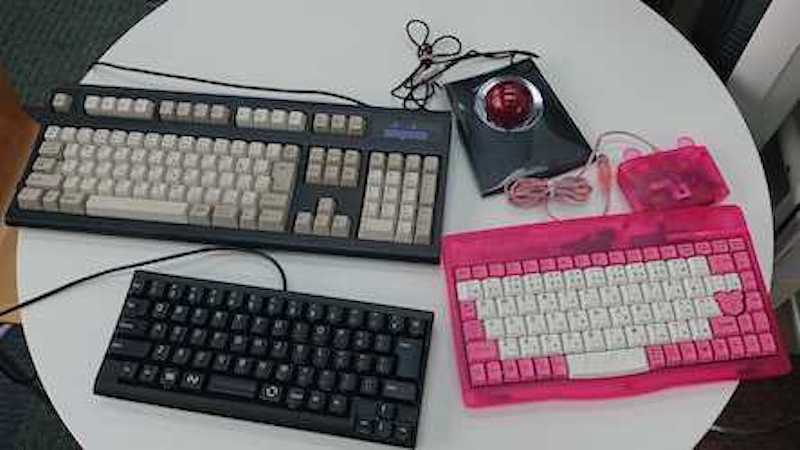
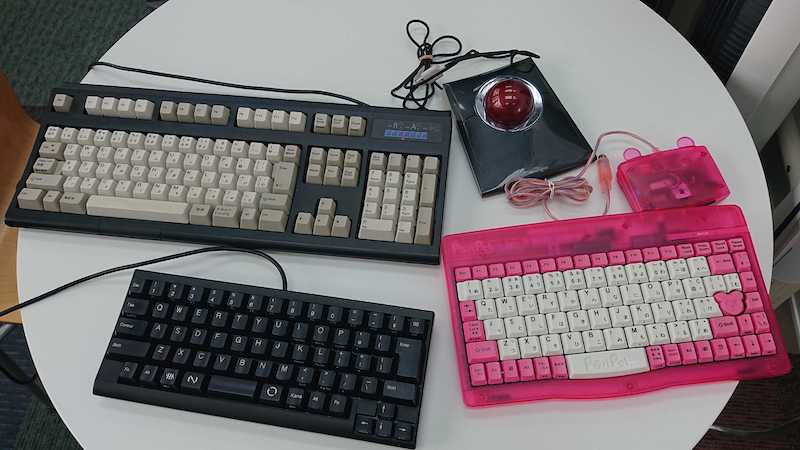
キーボードの写真と名称の修正

diff --git a/src/templates/blog-post.js b/src/templates/blog-post.js
@@ -23,11 +23,9 @@ const BlogPostTemplate = ({ data, pageContext, location }) => {
         <header>
           <h1 itemProp="headline">{post.frontmatter.title}</h1>
           <p>
-            <span style="font-size: 50%;">
-              Created: {post.frontmatter.date}
-              <br />
-              Last modified: {post.fields.gitAuthorTime}
-            </span>
+            Created: {post.frontmatter.date}
+            <br />
+            Last modified: {post.fields.gitAuthorTime}
           </p>
         </header>
         <section

diff --git a/posts/2020/index.md b/posts/2020/index.md
@@ -136,7 +136,7 @@ PCやスマホの性能を引き出し，新たな機能を創造できる！
 
 ### 動的解析にもとづくLinux Kernel Tinification手法
 
-高度ICT領域・修士2年・雫石 卓耶
+雫石 卓耶（高度ICT領域・修士2年）
 
 - スマート家電や自動運転車等のIoTの発展にともない，高機能化した組み込み機器のソフトウェアインフラとして Linux が注目されている
 - 当初，多機能なPC向けに開発されたLinuxは，組み込み用OSとしてはリソース消費量(メモリ使用量や電力消費量)が多いという課題がある
@@ -150,7 +150,7 @@ PCやスマホの性能を引き出し，新たな機能を創造できる！
 
 ### ハードウェア仮想化技術を用いたセキュアな軽量コンテナ実現手法に関する研究
 
-高度ICT領域・修士1年・中田 裕貴
+中田 裕貴（高度ICT領域・修士1年）
 
 - マイクロサービス・アーキテクチャの普及にともなって,コンテナ型仮想化技術(例 : Docker)の活用が拡大
 - コンテナ型仮想化技術は,アプリケーション毎に使用する計算資源やシステム機能を制限するOS機能
@@ -165,7 +165,7 @@ PCやスマホの性能を引き出し，新たな機能を創造できる！
 
 ### 動的適応性を持つ分散システムを対象としたシステム状態可視化手法に関する研究
 
-高度ICT領域・修士1年・林 友佳
+林 友佳（高度ICT領域・修士1年）
 
 - マイクロサービス・アーキテクチャの普及により，大規模で複雑かつ状況に応じた変化が起こるようなシステム(動的適応性を持つ分散システム)が増加している
 - 動的適応性を持つ分散システムは，障害発生時の状態がわかりにくいため，障害発生時の原因追求や対処に時間がかかる
@@ -178,7 +178,7 @@ PCやスマホの性能を引き出し，新たな機能を創造できる！
 
 ### スケーラブルな分散システムの監視における依存関係の時系列変化を考慮したクエリ機能
 
-情報システムコース・学部4年・宮越 七菜
+宮越 七菜（情報システムコース・学部4年）
 
 - スケーラブルな分散システムは，稼働中に依存関係が自動で時系列変化していくため，システム設計・開発者であっても依存関係を常に把握することは困難である
 - 既存のシステム監視ツールでは，把握しきれない依存関係の中から障害要因となり得そうなノードの監視メトリクスを問い合わせる手段がない
@@ -191,7 +191,7 @@ PCやスマホの性能を引き出し，新たな機能を創造できる！
 
 ### ロボット制御システムにおける機能モジュールの分散配置に対する最適化機構
 
-知能システムコース・学部4年・大野 和也
+大野 和也（知能システムコース・学部4年）
 
 - ロボットのシステム開発にRobot Operating System（ROS）の利用が拡がっている
 - ROSではノードと呼ばれるロボットの機能モジュールを組み合わせることで，ロボット制御システムを構築
@@ -205,7 +205,7 @@ PCやスマホの性能を引き出し，新たな機能を創造できる！
 
 ### VMMによる軽量かつセキュアなアドホッククラウド基盤
 
-情報システムコース・学部4年・熊谷 峻
+熊谷 峻（情報システムコース・学部4年）
 
 - 企業や研究機関内の余剰な計算資源を活用したクラウドコンピューティング技術であるアドホッククラウドが注目されている
 - クラウド以外のタスクの増加によってコード実行中にクラウドから離脱したり，コードがPCのOSに影響を及ぼしクラッシュしてしまったりする可能性がある
@@ -219,7 +219,7 @@ PCやスマホの性能を引き出し，新たな機能を創造できる！
 
 ### 編集履歴にもとづいたイラストデータの透過的圧縮機構の実現
 
-高度ICTコース・学部4年・吉川 綾乃
+吉川 綾乃（高度ICTコース・学部4年）
 
 - ペンタブレット製品等の普及により，コンピュータを使って描くデジタルイラストが一般的になった
 - イラストでは制作過程で別名保存していくことでバックアップを取ることが多いが，そのためローカルストレージが圧迫される
@@ -233,7 +233,7 @@ PCやスマホの性能を引き出し，新たな機能を創造できる！
 
 ### ロボット制御システムにおけるOSS機能モジュール向けサンドボックスの実現
 
-知能システムコース・学部4年・瀧本 恒平
+瀧本 恒平（知能システムコース・学部4年）
 
 - 様々な分野においてロボットの活用が拡大しており，ロボットシステムの開発にRobot Operating System(ROS)を用いる機会が増加している
 - ROSでは，ノードと呼ばれる機能モジュールを複数組み合わせることでシステムを構築し，オープンソースソフトウェア(OSS)として公開されているノードを活用することでロボットシステムの開発効率向上を図っている
@@ -292,7 +292,7 @@ PCやスマホの性能を引き出し，新たな機能を創造できる！
 
 ### 学会
 
-研究やゼミを通して順調に成果を出すことで，学会やオープンソース系の会議（RubyKaigi，OSC，Open Source Summitなど）に参加して発表を行うことができます．
+研究やゼミを通して順調に成果を出すことで，学会やオープンソース系の会議（RubyKaigi，OSC，Open Source Summitなど）に参加することができます．
 
 ![学会](/img/学会.jpg)
 
